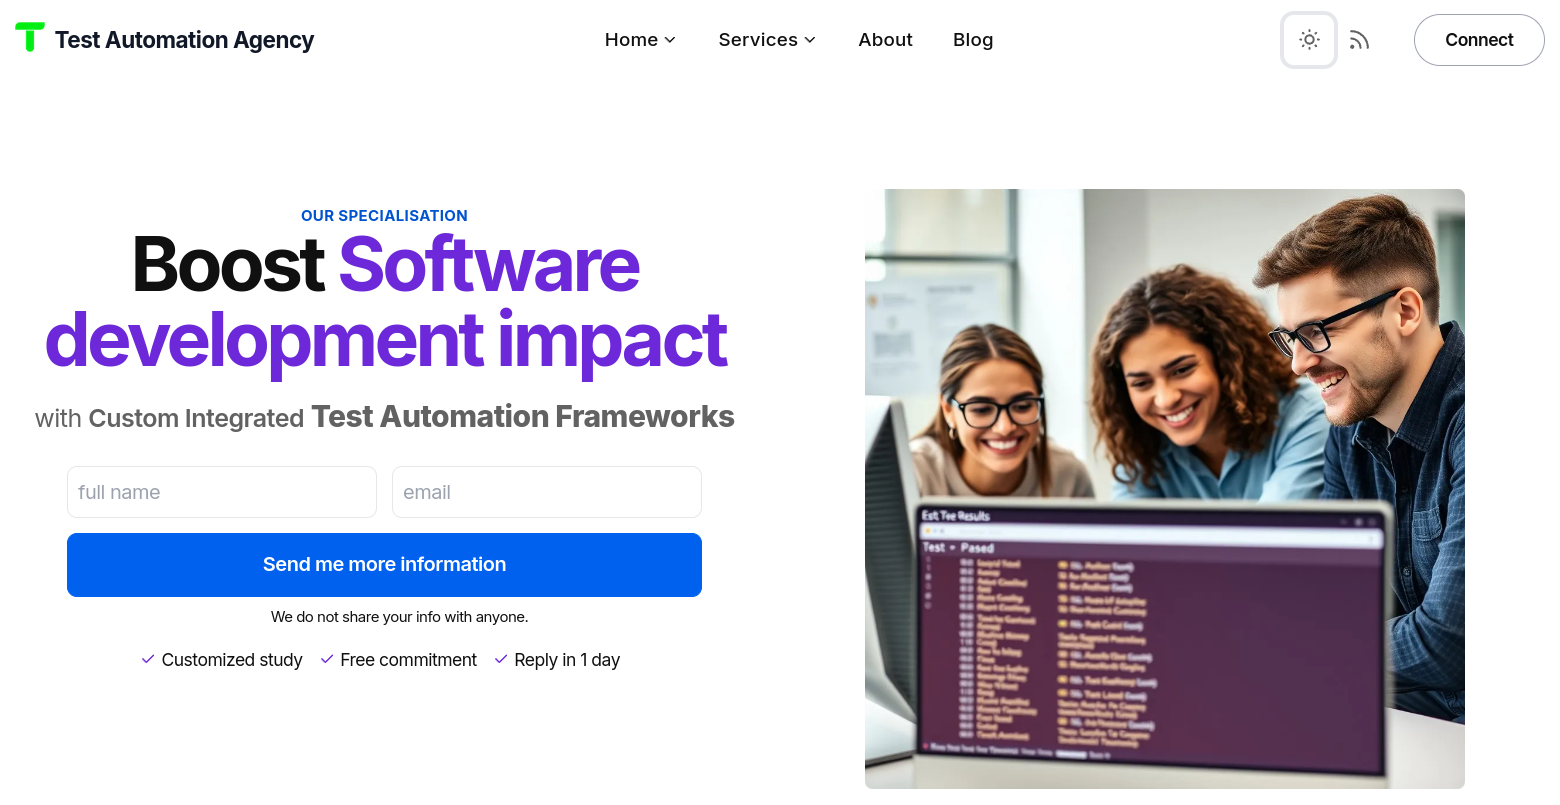
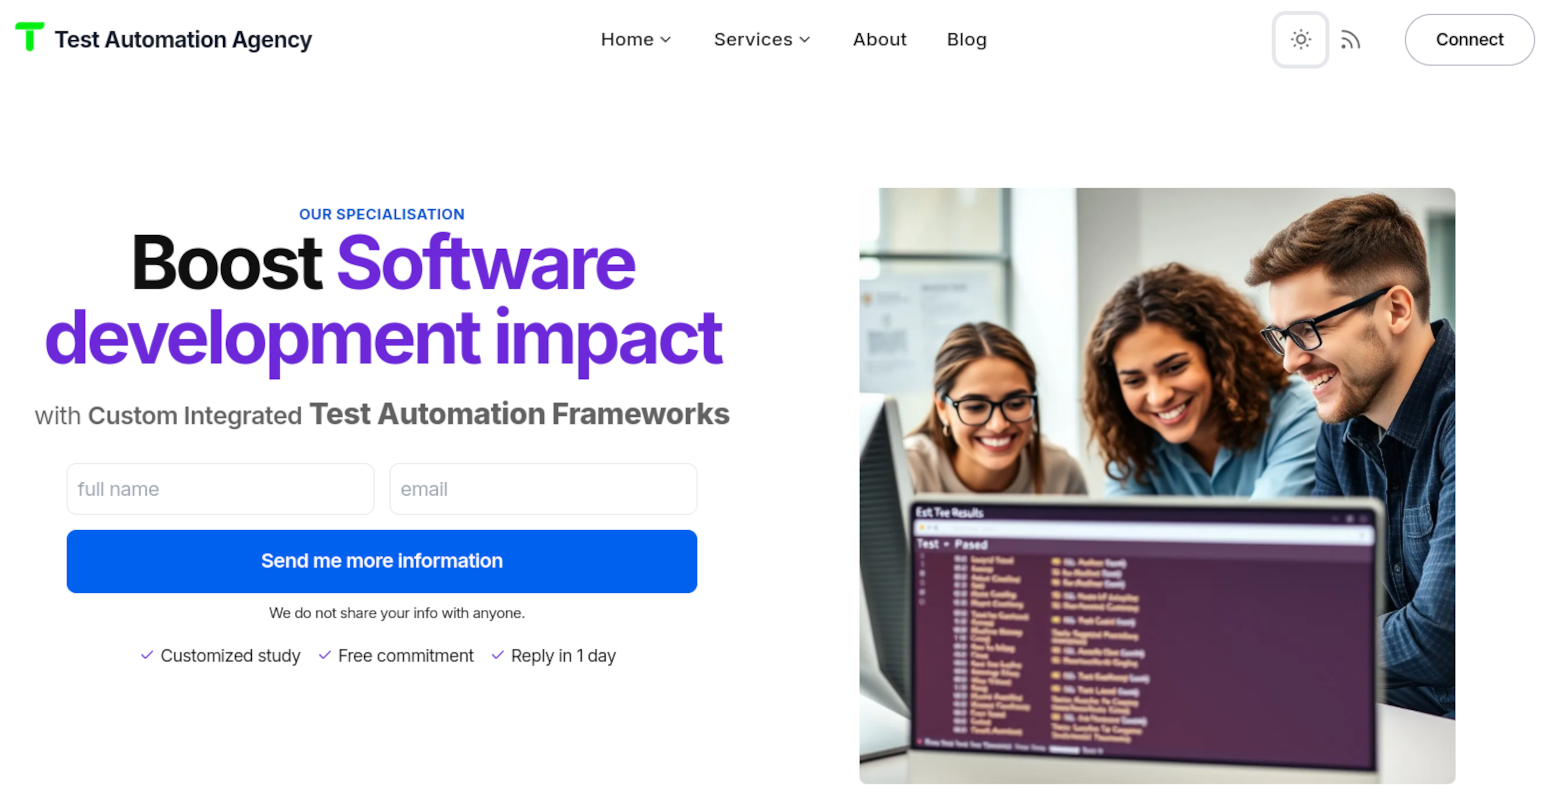
finished version 0.1 to be publised

diff --git a/src/styles/base/index.css b/src/styles/base/index.css
@@ -8,28 +8,28 @@
 
 @font-face {
     font-family: 'Segoe';
-    src: url('src/assets/fonts/segoeuithibd.ttf') format('truetype'); /* Bold */
+    src: url('../../assets/fonts/segoeuithibd.ttf') format('truetype'); /* Bold */
     font-weight: bold;
     font-style: normal;
   }
   
   @font-face {
     font-family: 'Segoe';
-    src: url('src/assets/fonts/segoeuithis.ttf') format('truetype'); /* Regular */
+    src: url('../../assets/fonts/segoeuithis.ttf') format('truetype'); /* Regular */
     font-weight: normal; 
     font-style: normal; 
   }
   
   @font-face {
     font-family: 'Segoe';
-    src: url('src/assets/fonts/segoeuithisi.ttf') format('truetype'); /* Italic */
+    src: url('../../assets/fonts/segoeuithisi.ttf') format('truetype'); /* Italic */
     font-weight: normal; 
     font-style: italic; 
   }
   
   @font-face {
     font-family: 'Segoe';
-    src: url('src/assets/fonts/segoeuithisz.ttf') format('truetype'); /* Bold Italic */
+    src: url('../../assets/fonts/segoeuithisz.ttf') format('truetype'); /* Bold Italic */
     font-weight: bold; 
     font-style: italic; 
   }
